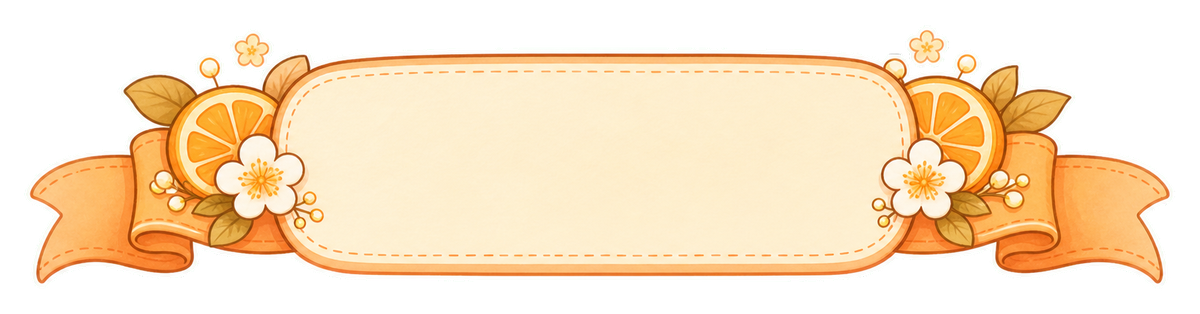
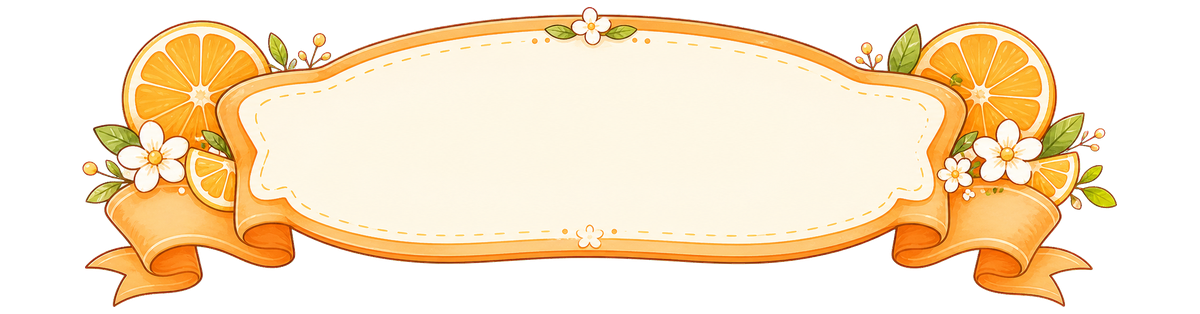
Widen practice ribbon text panel
Constraint: The practice stats ribbon needs enough visual width for four-digit counts while keeping text centered inside the artwork.
Rejected: Keep the old ribbon asset and only tune offsets | the old illustration's center panel is too narrow and keeps forcing text into the decorations.
Confidence: high
Scope-risk: narrow
Directive: Keep the stats text in the absolute centered ribbon layer with Android font padding disabled.
Tested: pnpm --dir apps/mobile typecheck; pnpm --dir apps/mobile test; pnpm check:file-lines -- apps/mobile/src/navigation/PracticeActionMenu.tsx apps/mobile/tests/e2e-contract.test.ts; pnpm --dir apps/mobile android:dev; ADB screenshot with temporary 1000 value /tmp/ielts-practice-menu-wide-ribbon-1000-centered-text.png
Not-tested: Full Android release APK rebuild

diff --git a/apps/mobile/tests/e2e-contract.test.ts b/apps/mobile/tests/e2e-contract.test.ts
@@ -345,11 +345,12 @@ describe('mobile Maestro E2E contract', () => {
     assert.match(practiceActionMenuSource, /<Text adjustsFontSizeToFit minimumFontScale=\{0\.72\} numberOfLines=\{1\} style=\{styles\.ribbonNumber\}>[\s\S]*?\{displayedTodayMasteredWords\}[\s\S]*?<\/Text>/)
     assert.match(practiceActionMenuSource, /<Text numberOfLines=\{1\} style=\{\[styles\.ribbonText, styles\.ribbonTextSuffix\]\}>词<\/Text>/)
     assert.match(practiceActionMenuSource, /ribbonNumber: \{[\s\S]*?fontSize: 30,/)
-    assert.match(practiceActionMenuSource, /ribbonNumber: \{[\s\S]*?minWidth: 80,[\s\S]*?textAlign: 'center',/)
-    assert.match(practiceActionMenuSource, /ribbonNumberSlot: \{[\s\S]*?position: 'absolute',/)
-    assert.match(practiceActionMenuSource, /ribbonTextPrefix: \{[\s\S]*?right: 156,/)
-    assert.match(practiceActionMenuSource, /ribbonTextSuffix: \{[\s\S]*?left: 156,/)
-    assert.match(practiceActionMenuSource, /ribbonTextWrap: \{[\s\S]*?position: 'relative',[\s\S]*?width: 236,/)
+    assert.match(practiceActionMenuSource, /ribbonNumber: \{[\s\S]*?includeFontPadding: false,[\s\S]*?textAlignVertical: 'center',/)
+    assert.match(practiceActionMenuSource, /ribbonNumberSlot: \{[\s\S]*?justifyContent: 'center',[\s\S]*?width: 104,/)
+    assert.match(practiceActionMenuSource, /ribbonText: \{[\s\S]*?includeFontPadding: false,[\s\S]*?textAlignVertical: 'center',/)
+    assert.match(practiceActionMenuSource, /ribbonTextPrefix: \{[\s\S]*?textAlign: 'right',[\s\S]*?width: 96,/)
+    assert.match(practiceActionMenuSource, /ribbonTextSuffix: \{[\s\S]*?textAlign: 'left',[\s\S]*?width: 96,/)
+    assert.match(practiceActionMenuSource, /ribbonTextWrap: \{[\s\S]*?bottom: 0,[\s\S]*?flexDirection: 'row',[\s\S]*?position: 'absolute',[\s\S]*?width: '100%',/)
     assert.match(practiceActionMenuSource, /source=\{practiceHeroTutor\}/)
     assert.match(practiceActionMenuSource, /<ImageBackground resizeMode="contain" source=\{practiceStatRibbon\} style=\{styles\.heroRibbon\}>/)
     assert.match(practiceActionMenuSource, /testID="practice\.quickAction\.modePrompt"/)

diff --git a/apps/mobile/src/navigation/PracticeActionMenu.tsx b/apps/mobile/src/navigation/PracticeActionMenu.tsx
@@ -370,45 +370,55 @@ const styles = StyleSheet.create({
     color: '#C3551C',
     fontSize: 30,
     fontWeight: '900',
-    lineHeight: 38,
+    height: 44,
+    includeFontPadding: false,
+    lineHeight: 44,
     minWidth: 80,
     textAlign: 'center',
+    textAlignVertical: 'center',
   },
   ribbonNumberSlot: {
     alignItems: 'center',
-    left: 0,
-    position: 'absolute',
-    right: 0,
+    justifyContent: 'center',
+    width: 104,
   },
   ribbonText: {
     color: '#6E4934',
     fontSize: 16,
     fontWeight: '900',
-    lineHeight: 38,
+    height: 44,
+    includeFontPadding: false,
+    lineHeight: 44,
     textAlign: 'left',
+    textAlignVertical: 'center',
   },
   ribbonTextPrefix: {
-    position: 'absolute',
-    right: 156,
+    textAlign: 'right',
+    width: 96,
   },
   ribbonTextSuffix: {
-    left: 156,
-    position: 'absolute',
+    textAlign: 'left',
+    width: 96,
   },
   ribbonTextWrap: {
     alignItems: 'center',
-    height: 58,
+    bottom: 0,
+    flexDirection: 'row',
+    height: '100%',
     justifyContent: 'center',
-    position: 'relative',
-    paddingTop: 2,
-    width: 236,
+    left: 0,
+    paddingTop: 0,
+    position: 'absolute',
+    right: 0,
+    top: 0,
+    width: '100%',
   },
   heroRibbon: {
     alignItems: 'center',
-    height: 88,
+    height: 107,
     justifyContent: 'center',
     marginBottom: -theme.spacing.md,
-    width: 336,
+    width: 408,
   },
   backdrop: {
     ...StyleSheet.absoluteFillObject,
